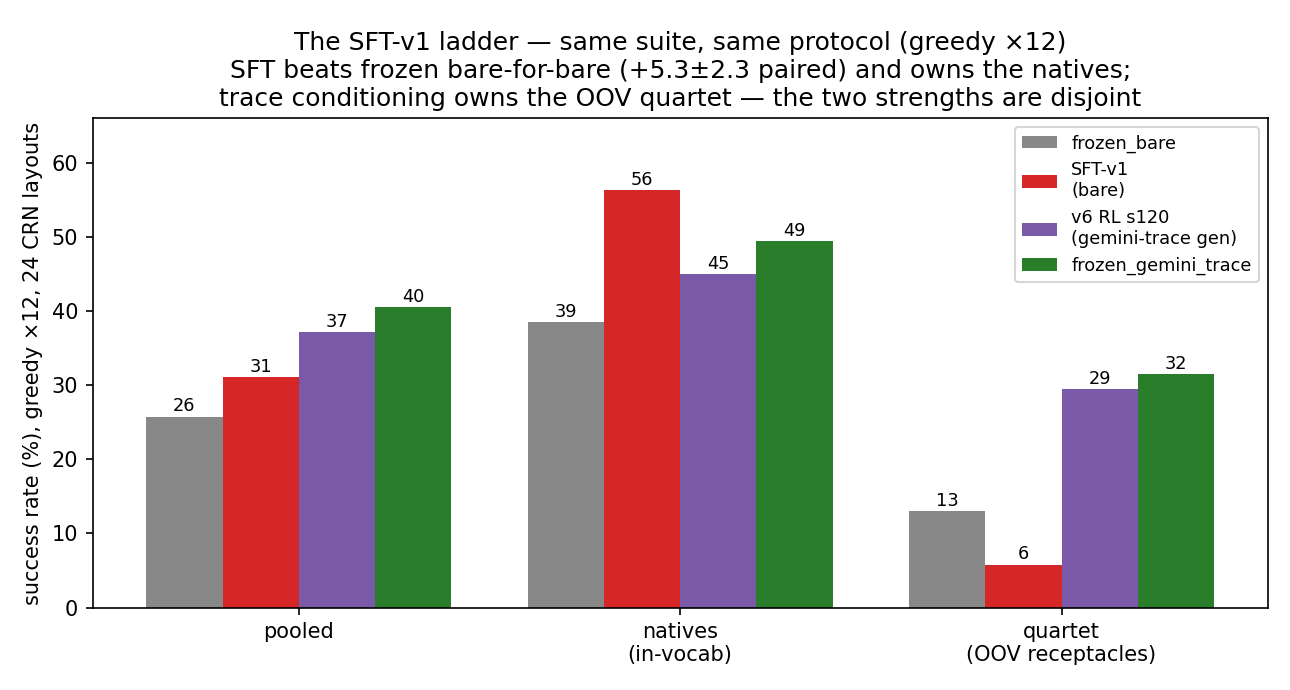
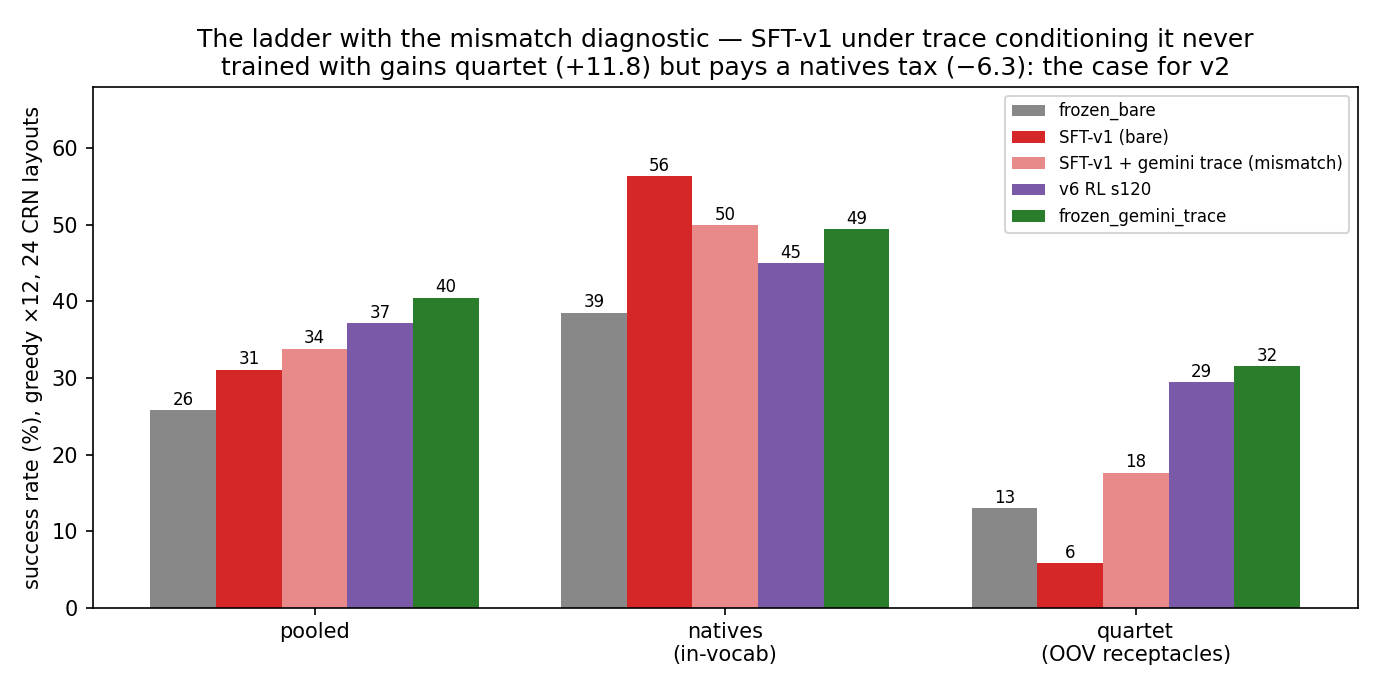
WRITEUP: sft_gemini_trace mismatch diagnostic + 5-arm ladder chart

diff --git a/WRITEUP.md b/WRITEUP.md
@@ -498,5 +498,11 @@ artifact (SFT's own draws contain "white bowl" at 54%), keyboard/coke-plate are
 distribution-deep (best-of-8 stuck at 8.3). Meanwhile frozen_gemini_trace (40.5)
 proves image-grounded trace conditioning rescues exactly those tasks (quartet 31.5)
 — and a probe showed the 9B resolves both OOV receptacles from the image on its own.
-The v2 synthesis trains the reconstructor *with* Qwen self-traces: nouns from the
+**The mismatch diagnostic (sft_gemini_trace).** Evaluating the v1 adapter under the
+trace conditioning it never trained with completes the argument: pooled 33.8 —
+quartet rescued halfway (+11.8 over its bare 5.8; coke-plate 5.9→30.9, ramekin
+3.8→28.5, though keyboard stays at 1.4 where vocabulary-forcing still wins) but a
+−6.3 *natives tax* (56.3→50.0) from the off-distribution prompt. A traceless-trained
+model can partially read traces, and pays for the format shift exactly where it was
+strongest. The v2 synthesis trains the reconstructor *with* Qwen self-traces: nouns from the
 trace, relation from the input, register from the prior.
